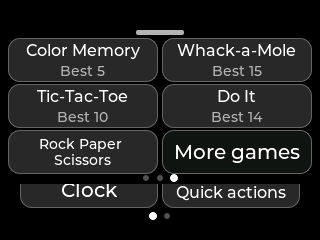
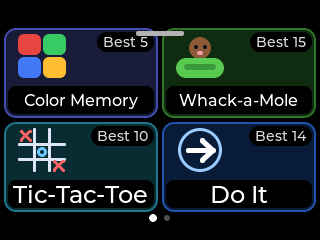
Docs: themed Apps and Games walls, sheet with Lock tile, Timers presets, Info tab; new unit screenshots

diff --git a/docs/user/features.md b/docs/user/features.md
@@ -26,7 +26,9 @@ Every feature on one page. Scan the table, then open the page for the ones you c
 | **Top banner and subtitle strip** | A fixed top row for the remote cue, find, game, offline and battery, and a subtitle strip at the bottom. | Robot | [Face and look](face-and-look.md) |
 | **Filler sounds** | A short sound or phrase while the robot thinks: none, tone or phrase. Not yet heard by a person. | Robot | [Voice](voice.md) |
 | **Language packs** | English is built in. Other languages arrive as packs. Screen text is plain ASCII, so accented letters are shown without accents. Offline phrase packs are built from the voice you use. | Robot | [Languages](languages.md) |
-| **Turn toward faces** <span class="planned-tag">Planned</span> | It does not move yet: the robot's seeker is in talk mode and the host gets no camera frames. A face detector on the robot is built as an experiment, switched off and not flashed. | Robot | [Face and look](face-and-look.md) |
+| **Turn toward faces** <span class="planned-tag">Planned</span> | The setting now defaults to always: the robot searches when something moves, with the camera cue on. It did not move for a face in the last check, and the face detector on the robot is an experiment, off and not flashed. | Robot | [Face and look](face-and-look.md) |
+| **Face-seen icon** | With the Status icons switch on, an icon shows when a face is detected. Not yet seen with a real face. | Robot | [Face and look](face-and-look.md) |
+| **Lock tile on the control sheet** | One tap locks the robot with your passcode. | Robot | [Swipe pages](swipe-pages.md) |
 | **Smoother eyes and mouth** | Eased eye moves, a smooth blink, a drifting gaze and a mouth that follows your voice. Measured 22 to 45 frames a second while the eyes move. Not yet seen on a robot screen. | Robot | [Face and look](face-and-look.md) |
 | **Your own picture faces** | Upload your own pictures on the settings page, one per look, as picture only, picture with animated eyes and mouth, or a short run of frames. Nothing leaves your home. Not yet seen on a robot screen. | Robot | [Face and look](face-and-look.md) |
 | **Faces and color** | Five face styles (big eyes, eyes only, stock, classic, minimal), any eye color, optional captions, a tired look when the battery is low and three dots while it thinks. | Robot | [Face and look](face-and-look.md) |
@@ -34,7 +36,7 @@ Every feature on one page. Scan the table, then open the page for the ones you c
 | **Face extras and word reactions** | Sweat, hearts, stars and more on the face, and reactions to words like "thanks" in six languages. | Robot | [Face and look](face-and-look.md) |
 | **Per-person settings** | A face color and caption size for each person. | Robot | [Face and look](face-and-look.md) |
 | **Time zone** | Pick one of 31 zones on the robot or the settings page. | Robot | [Face and look](face-and-look.md) |
-| **Control sheet** | Swipe up from the bottom for volume, brightness, mute, quiet, the listening light, find, timers, games and the Wi-Fi and battery state. | Robot | [Swipe pages](swipe-pages.md) |
+| **Control sheet** | Swipe up from the bottom for volume, brightness, the time, Wi-Fi and battery, and a row of six: Mute, Quiet, Lock, Apps, Games, Settings. | Robot | [Swipe pages](swipe-pages.md) |
 | **Swipe pages** | Swipe left or right on the face for a clock, timers, games, quick actions, your pictures or dashboard tiles, in the order you choose. | Robot | [Swipe pages](swipe-pages.md) |
 
 ## Keep time
@@ -75,7 +77,7 @@ Every feature on one page. Scan the table, then open the page for the ones you c
 | **Several robots, one host** | One host serves each robot by its own ID. | Robot | [Install the host](install-the-host.md) |
 | **Remote cue on the robot** | Every remote action shows a purple cue on the robot that cannot be turned off. Remote access is off by default. | Robot | [Security](security.md) |
 | **Remote controls on the settings page** | Beep, flash, find my robot (works even when muted), say something, head pad, nod, shake, dance, start a game and take a photo. | Robot | [Settings](settings.md) |
-| **Network test and version screen** | Swipe up from the bottom, More, More: a plain check of Wi-Fi, your host and the private network, and the version. | Robot | [Troubleshooting](troubleshooting.md) |
+| **Network test and version screen** | Settings, Network: a plain check of Wi-Fi, your host and the private network, and the version. | Robot | [Troubleshooting](troubleshooting.md) |
 | **Your own LLM or MaiPai Home** | Point the robot at any OpenAI-compatible chat address, or at a MaiPai Home hub. | Robot | [Which setup?](which-setup.md) |
 
 ## Set up and keep safe

diff --git a/docs/user/swipe-pages.md b/docs/user/swipe-pages.md
@@ -6,7 +6,7 @@ The face is home. You swipe on the screen to reach other things, and the robot g
 
 ![The control sheet on the robot, with Wi-Fi, time, battery, volume, brightness and the quick row.](../images/unit-control-sheet.png)
 
-![The Timers app on the robot, with 1, 5, 10 and 15 minute buttons and a running timer.](../images/unit-timers-app.png)
+![The Timers app on the robot, with minute presets on the left and a running timer with a progress bar and Cancel.](../images/unit-timers-app.png)
 
 ![The settings screen on the robot, with General, Network, Faces and Info tabs.](../images/unit-settings-general.png)
 
@@ -44,7 +44,21 @@ The banner row at the top and the subtitles at the bottom stay where they are wh
 
 ## The control sheet
 
-It shows volume and brightness sliders, buttons for mute, quiet, the listening light, find me, timers and games, and a line with the Wi-Fi signal, the battery and more. Every button says on or off in words, not only by color. **More** opens quick settings, where you pick a saved Wi-Fi network, reset the robot, and find the network test and the version screen.
+It shows volume and brightness sliders, a line with the Wi-Fi signal, the time and the battery, and one row of six buttons: Mute, Quiet, Lock, Apps, Games and Settings. The listening light switch is in Settings, on the General tab. Settings also has the Network tab (saved Wi-Fi networks and the network test), the Faces tab, and an Info tab that shows the firmware version and other details directly, with no hidden taps.
+
+![The Info tab on the robot, showing firmware version, image and slot.](../images/unit-info-tab.png)
+
+## The Apps and Games walls
+
+Apps and games show as big colored tiles, each with its own picture: a stopwatch for Timers, a bell for Alarms, a clock face, a bolt for Quick actions, four colors for Color Memory, a mole for Whack-a-Mole, a grid for Tic-Tac-Toe and an arrow for Do It. Swipe for the next page; the dots are below the tiles. Only one screen shows at a time. Pressing a tile and the pop animation are not yet checked by a person.
+
+![The Apps wall on the robot: Timers, Alarms, Clock and Quick actions.](../images/unit-apps-wall.png)
+
+![The Games wall on the robot: Color Memory, Whack-a-Mole, Tic-Tac-Toe and Do It, each with a picture and a best score.](../images/unit-games-page.png)
+
+## The Timers app
+
+A column of presets on the left (1, 5, 10, 15, 30, 45 and 60 minutes, and Custom) scrolls. Each running timer is a tall row with a progress bar and a big Cancel.
 
 ## Choose them on the settings page
 

diff --git a/docs/user/games-and-pet.md b/docs/user/games-and-pet.md
@@ -7,7 +7,7 @@ The games and the pet mood run on the robot itself, so they work with your own L
 
 Every game is full height. Swipe down on the bar at the top to leave. Game sounds are at chime level and follow the system volume. Reaction Time is gone.
 
-![The Games page on the robot: Color Memory, Whack-a-Mole, Tic-Tac-Toe, Do It, Rock Paper Scissors and More games. Before the theme pass: the next robot image has bigger tiles with a picture for each game.](../images/unit-games-page.png)
+![The Games wall on the robot: big colored tiles with a picture and a best score for each game.](../images/unit-games-page.png)
 
 The robot has seven games, all on the flashed robot. The talk games are built but not flashed yet, and not tested with a live model. No finger has been tested on the glass by a person. They run on the robot itself, so they work even when MaiPai Home is off.
 

diff --git a/docs/user/troubleshooting.md b/docs/user/troubleshooting.md
@@ -26,7 +26,7 @@ Start with `stackchan check`. It tests each address you set and says what is wro
 
 ## Test the connection
 
-On the robot, swipe up from the bottom, tap **More** (quick settings), tap **More** again, then **Network test**. It checks Wi-Fi, the link to your host and, away from home, the private network. Each line starts with OK or FIX, and the last line says what to fix first. **More**, then **Version**, shows the version. Tap it ten times for details.
+On the robot, swipe up from the bottom, tap **Settings**, then the **Network** tab, then **Network test**. It checks Wi-Fi, the link to your host and, away from home, the private network. Each line starts with OK or FIX, and the last line says what to fix first. **More**, then **Version**, shows the version. Tap it ten times for details.
 
 ## Reset the robot
 
